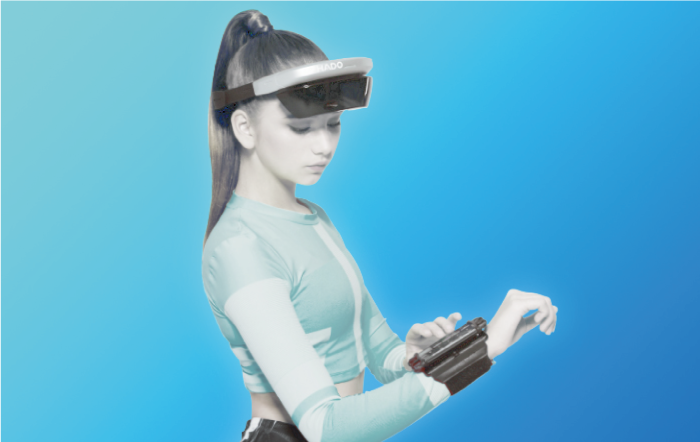
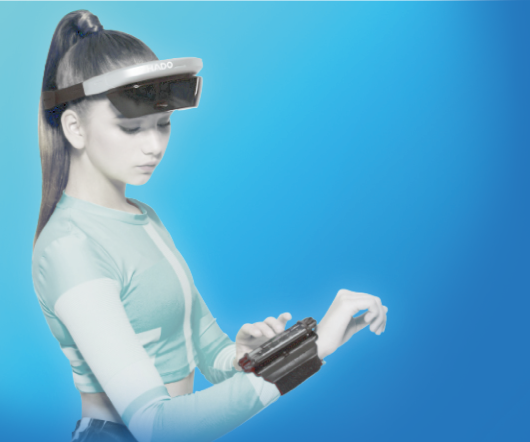
Minor correction2

diff --git a/public/css/custom.css b/public/css/custom.css
@@ -1,5 +1,7 @@
 #what-we-do-and-other .wwd-posts{
-	background-size: cover;
+	background-size: contain;
+	background-repeat: no-repeat;
+	background-color: #2476bc;
 }
 #what-we-do-and-other .wwd-intro-text{
 	margin-top: 90%;
@@ -9,6 +11,11 @@
 .news-img{
 	width: 100%;
 	margin-top: 20px;
+}
+@media (min-width: 1199.98px){
+#news-grid .main-news h3{
+	font-size: 54px;
+}
 }
 @media (min-width: 1600px){
 	.offset-xxl-3 {
@@ -53,7 +60,6 @@
 	}
 	#what-we-do-and-other .wwd-posts{
 		background-size: auto;
-		background-repeat: no-repeat;
-		background-color: #53C2E5;
+		background-color: #2781C4;
 	}
 }

diff --git a/resources/views/index.blade.php b/resources/views/index.blade.php
@@ -149,11 +149,6 @@ $learn_more_text = mb_str_split($learn_more);
                             <div class="row pb-0 pb-lg-5">
                                 <div class="col-lg-4 rellax" data-rellax-speed="3">
                                     <div style="height: 40px" class="d-none d-lg-block"></div>
-                                    @if($locale== "en")
-                                        <div class="description-en poppins in-view-fadein-to-top in-view in-view-once">
-                                            <p>{!! nl2br(__("index.what_we_do.intro")) !!}</p>
-                                        </div>
-                                    @endif
                                     <div class="wwd-block mb-5 mb-lg-0 in-view-fadein-to-top in-view in-view-once increase no-effect intro" data-delay=".25">
                                         <div class="effect">
                                             <div class="effect-container">
@@ -166,6 +161,11 @@ $learn_more_text = mb_str_split($learn_more);
                                                     <p class="wwd-intro-text">"{!! nl2br(__("index.what_we_do.intro")) !!}" </p>
                                                 </div>
                                             @endif
+																					@if($locale== "en")
+																					<div class="wwd-description intro">
+                                            <p class="wwd-intro-text">{!! nl2br(__("index.what_we_do.intro")) !!}</p>
+																						</div>
+                                    @endif
                                         </div>
  
                                     </div>
